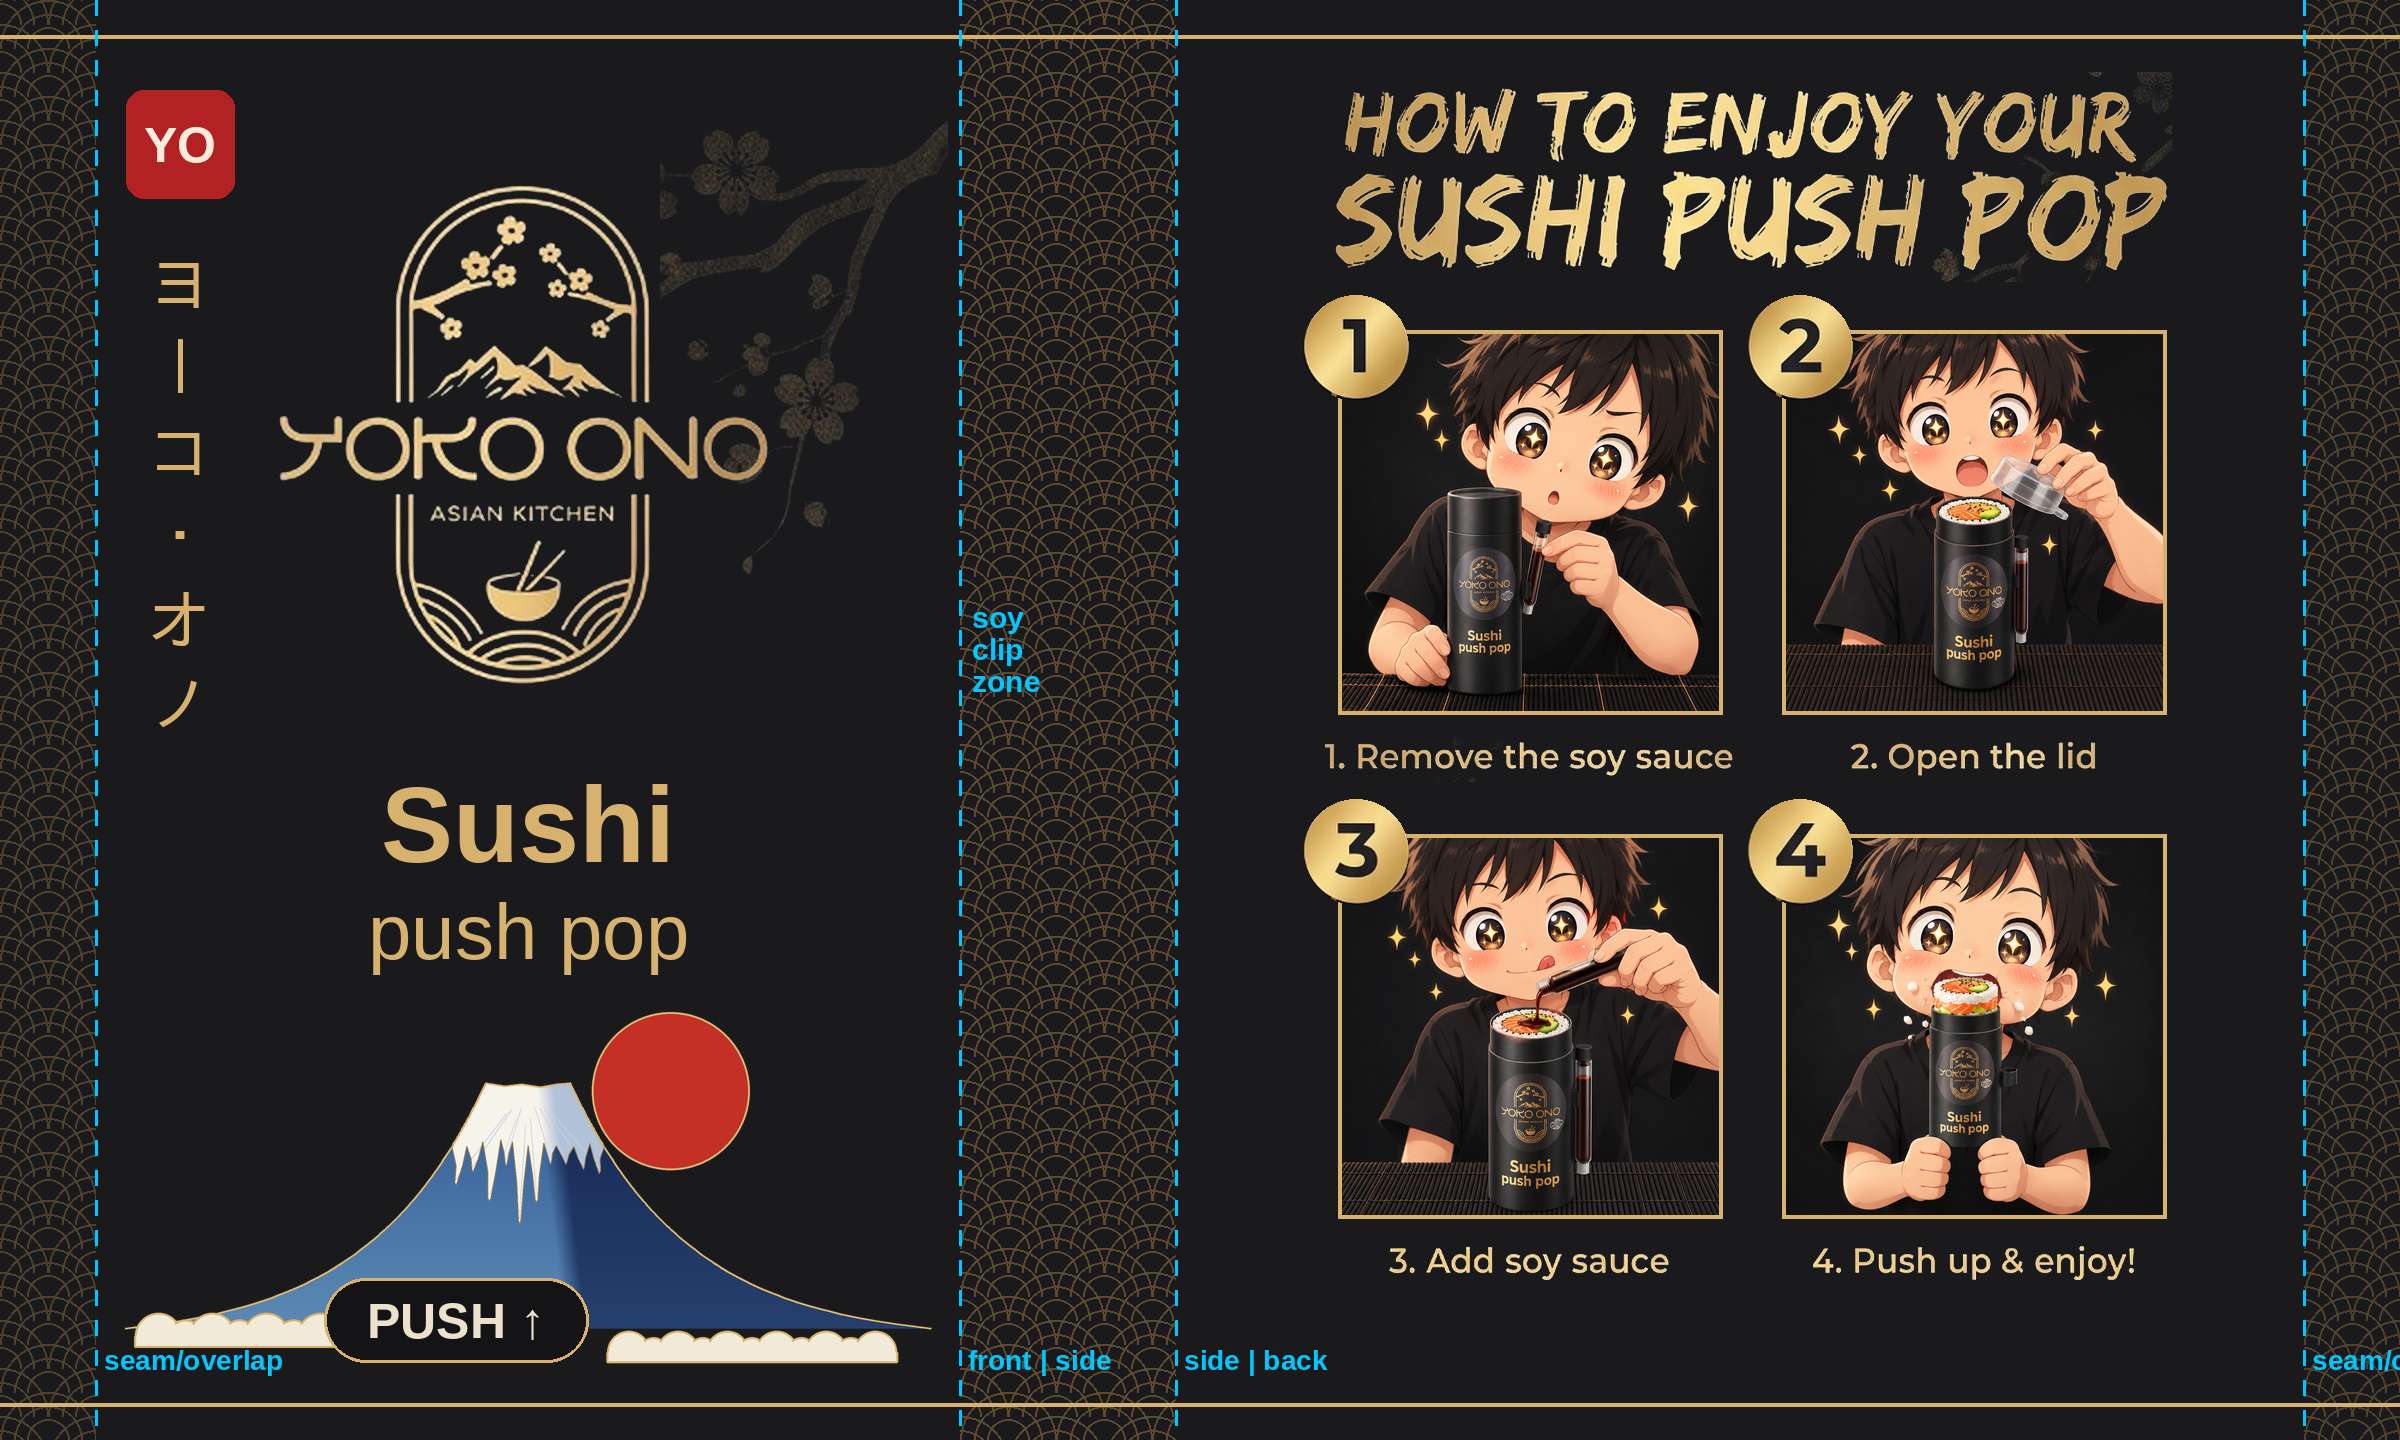
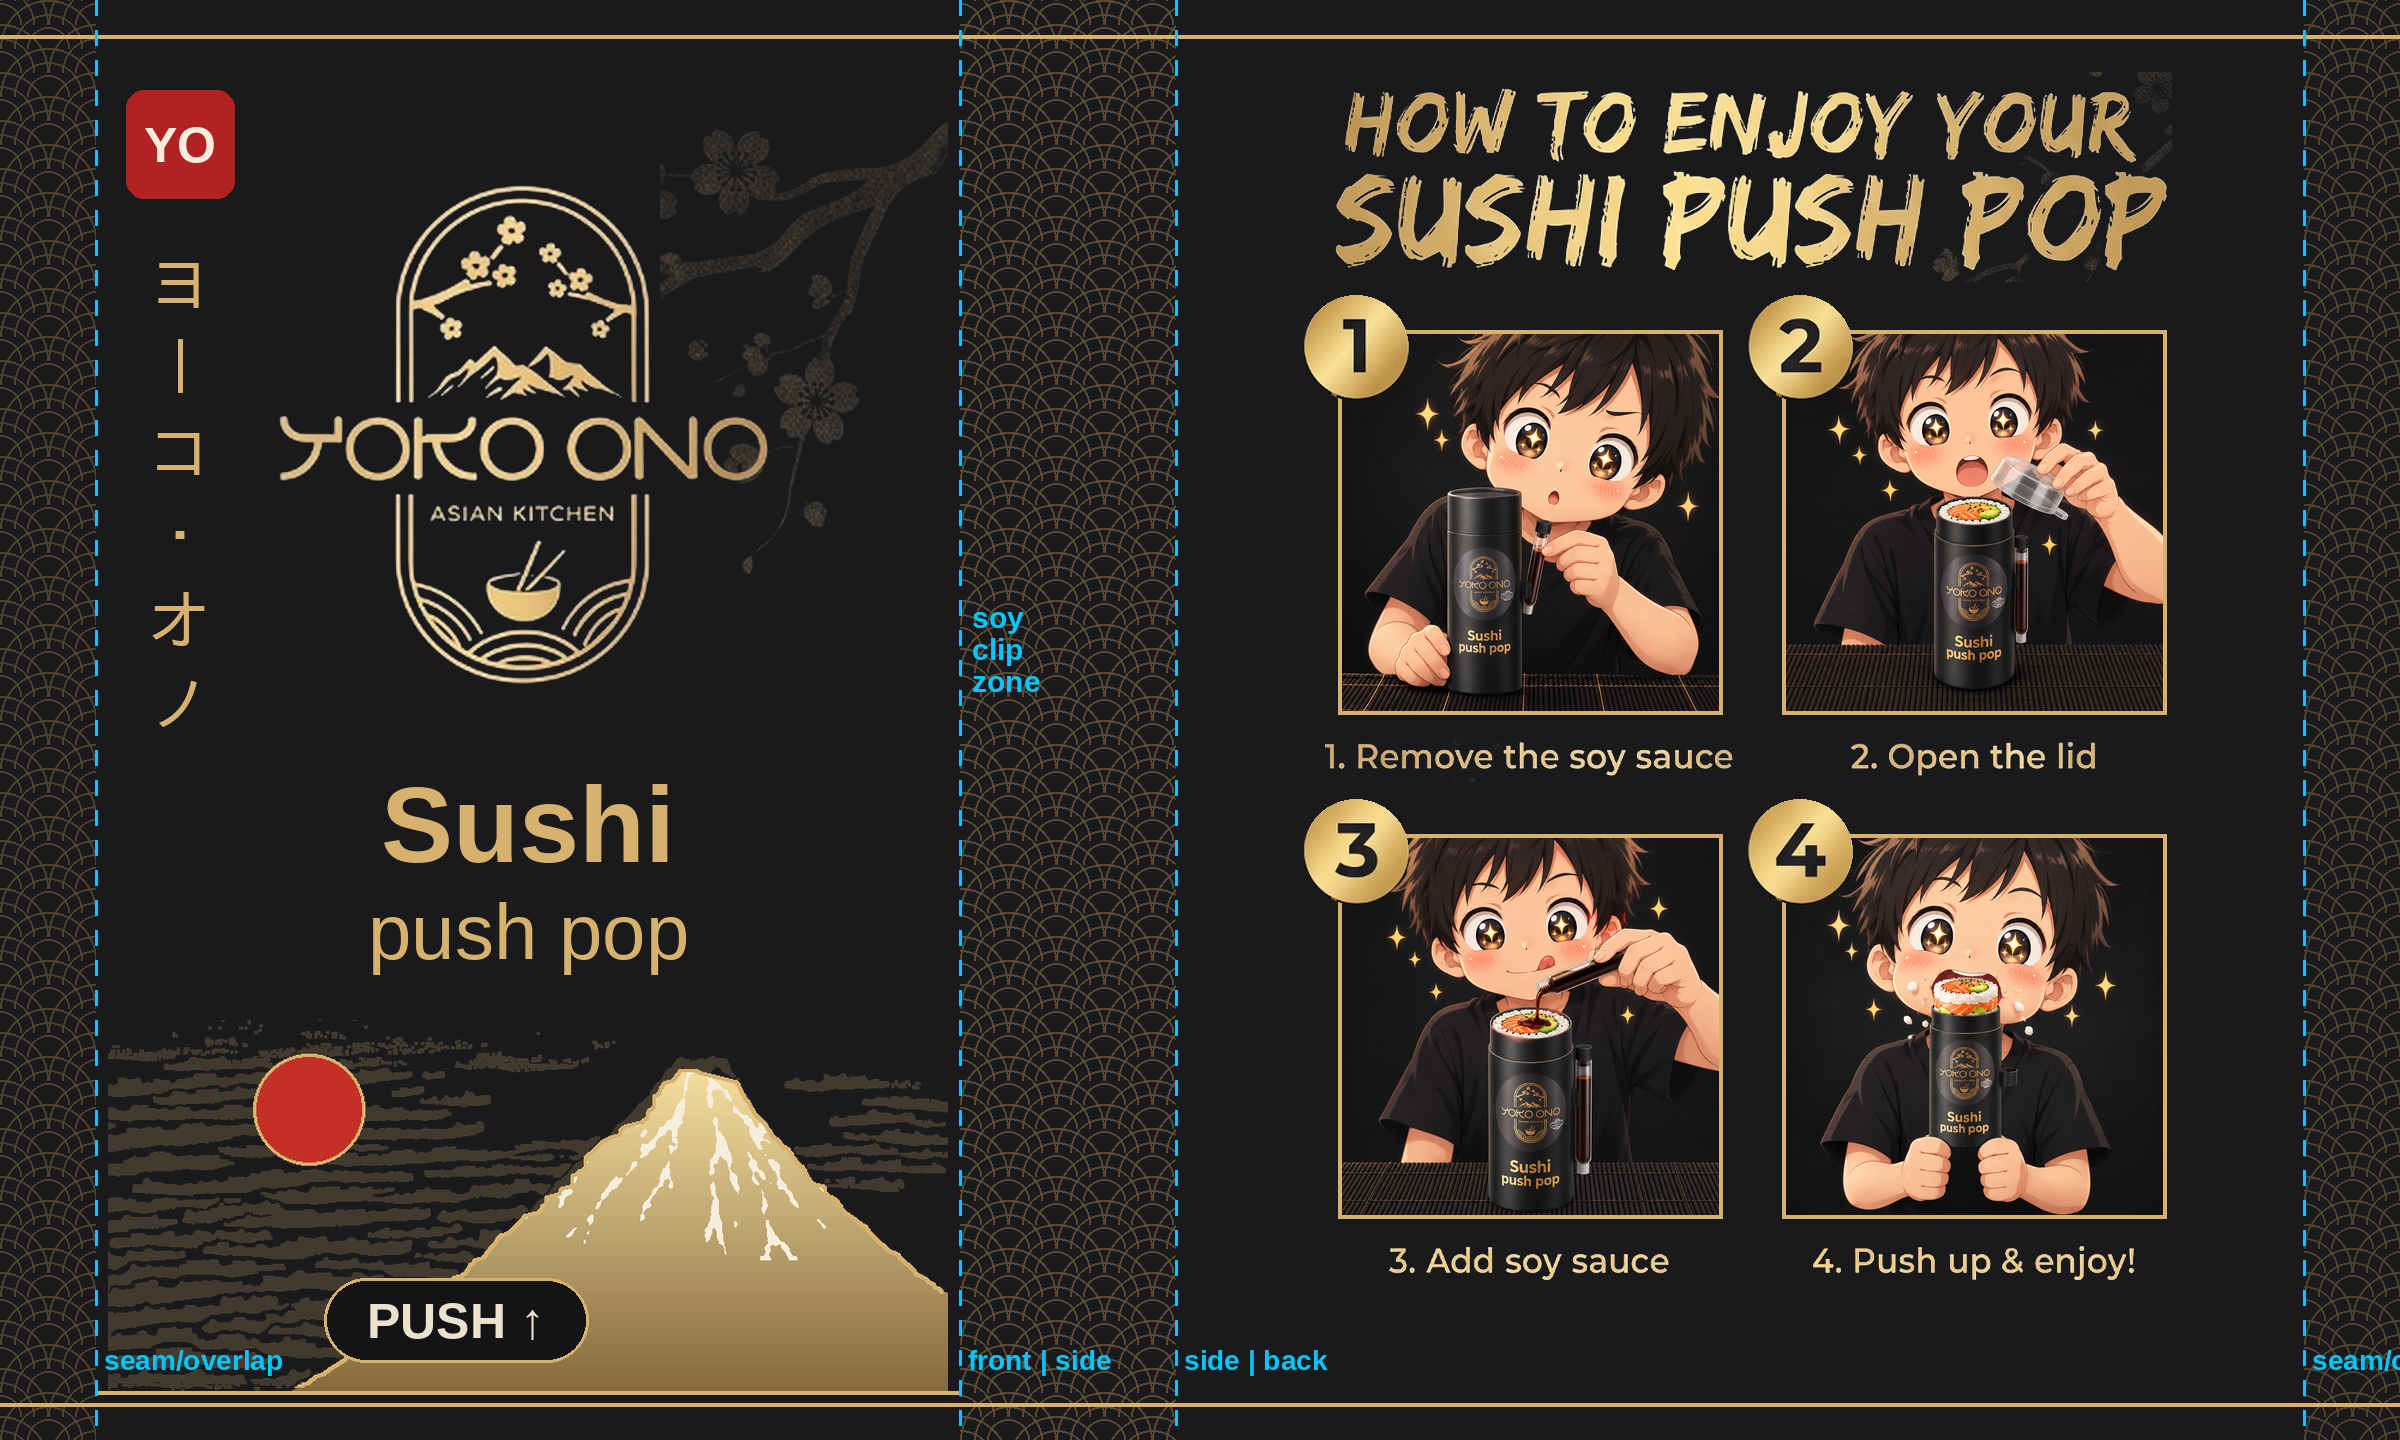
Wrap label: Fuji from Hokusai's Red Fuji (public domain) recoloured to black & gold; clean + print variants
Claude-Session: https://claude.ai/code/session_01V1tqCne1qoexL69DJjRyCc

Changed region(s): [[0.0312, 0.6875, 0.4062, 0.9688]]

diff --git a/sticker/fuji_hokusai.py b/sticker/fuji_hokusai.py
@@ -1,0 +1,87 @@
+"""Fuji from Hokusai's 'Fine Wind, Clear Morning' (public domain), recoloured to the ad's black & gold.
+mode 'print' = keep Hokusai's texture as gold-on-black;  mode 'clean' = flat clean vector-like fills."""
+import numpy as np
+from PIL import Image, ImageFilter, ImageDraw
+REF='ref/hokusai_red_fuji_PD.jpg'
+GOLD=np.array([214,178,110]); GOLD_HI=np.array([246,222,160]); GOLD_LO=np.array([110,82,40]); CREAM=np.array([246,238,220])
+
+def masks():
+    im=Image.open(REF).convert('RGB'); a=np.array(im).astype(int); r,g,b=a[...,0],a[...,1],a[...,2]
+    lum=0.3*r+0.59*g+0.11*b
+    red=((r-g>45)&(r-b>45)) | ((r-b>25)&(r-g>15)&(lum<140))
+    rm=Image.fromarray((red*255).astype('uint8')).filter(ImageFilter.MaxFilter(9)).filter(ImageFilter.MinFilter(9))
+    rmn=np.array(rm)>0
+    H,W=rmn.shape; hull=np.zeros_like(rmn)
+    def runs(row):
+        d=np.diff(np.concatenate([[0],row.astype(int),[0]])); st=np.nonzero(d==1)[0]; en=np.nonzero(d==-1)[0]-1
+        return list(zip(st,en))
+    # summit: first row with a solid red run of >=10px
+    y0=next(y for y in range(H) if any(e-s>=10 for s,e in runs(rmn[y])))
+    s0,e0=max(runs(rmn[y0]),key=lambda t:t[1]-t[0]); curL,curR=s0,e0
+    for y in range(y0,H):
+        rs=[(s,e) for s,e in runs(rmn[y]) if e>=curL-6 and s<=curR+6]   # runs touching current cone
+        if rs:
+            nl=min(s for s,e in rs); nr=max(e for s,e in rs)
+            curL=min(curL,max(nl,curL-4)); curR=max(curR,min(nr,curR+4))   # flanks spread at most 4px/row
+        hull[y,curL:curR+1]=True
+    # smooth hull edge
+    hm=Image.fromarray((hull*255).astype('uint8')).filter(ImageFilter.MinFilter(5)).filter(ImageFilter.MaxFilter(5)).filter(ImageFilter.GaussianBlur(1.2))
+    hull=np.array(hm)>128
+    yy=np.arange(H)[:,None].repeat(W,1)
+    snow=hull & (lum>140) & (r-g<55) & (yy<int(H*0.45))
+    sky=~hull
+    cloud=sky & (lum>150)
+    return a,lum,hull,snow,cloud
+
+def render(mode='clean', crop=(190,70,960,412)):
+    a,lum,hull,snow,cloud=masks()
+    H,W=hull.shape; out=np.zeros((H,W,4),float)
+    yy=np.arange(H)[:,None].repeat(W,1)
+    top=np.nonzero(hull.any(1))[0][0]
+    # vertical gradient on the mountain: bright gold at summit -> deep gold lower down
+    f=np.clip((yy-top)/(H*0.55),0,1)[...,None]
+    base=GOLD_HI*(1-f)+GOLD_LO*f
+    if mode=='print':
+        tex=(lum/255.0)[...,None]                 # keep Hokusai's woodgrain texture
+        col=base*(0.55+0.6*tex)
+    else:
+        col=base
+    out[hull,:3]=np.clip(col[hull],0,255); out[hull,3]=255
+    s=snow
+    if mode=='clean':
+        sm=Image.fromarray((snow*255).astype('uint8')).filter(ImageFilter.MaxFilter(3)).filter(ImageFilter.MinFilter(3)).filter(ImageFilter.GaussianBlur(1.0))
+        s=(np.array(sm)>100)&hull
+    out[s,:3]=CREAM; out[s,3]=255
+    # fade the mountain foot into black (the print's forest)
+    fade=np.clip(1-(yy-(top+H*0.48))/(H*0.22),0,1)
+    out[...,3]*=fade
+    # Hokusai's cloud pattern as faint gold in the sky
+    cm=cloud
+    if mode=='clean':
+        cmi=Image.fromarray((cloud*255).astype('uint8')).filter(ImageFilter.MinFilter(3)).filter(ImageFilter.MaxFilter(3))
+        cm=(np.array(cmi)>128)&~hull
+    cl=np.zeros_like(out); cl[cm,:3]=GOLD; cl[cm,3]=55
+    clouds=Image.fromarray(cl.astype('uint8'),'RGBA').crop(crop)
+    img=Image.fromarray(out.astype('uint8'),'RGBA').crop(crop)
+    # gold outline along the mountain silhouette
+    hm=Image.fromarray((hull*255).astype('uint8')).crop(crop)
+    edge=hm.filter(ImageFilter.FIND_EDGES).filter(ImageFilter.MaxFilter(3))
+    e=np.array(edge)>60
+    e[:, -4:]=False; e[-4:,:]=False   # no outline along the crop border
+    o=np.array(img); fy=fade[crop[1]:crop[3],crop[0]:crop[2]]
+    o[e,:3]=GOLD; o[e,3]=(255*fy[e]).astype('uint8')
+    return Image.fromarray(o,'RGBA'), clouds
+
+def with_sun(layers):
+    img,clouds=layers
+    w,h=img.size; r=int(h*0.15); cx,cy=int(w*0.24),int(h*0.24)
+    out=clouds.copy(); sd=ImageDraw.Draw(out)
+    sd.ellipse((cx-r,cy-r,cx+r,cy+r),fill=(196,48,38,255),outline=(214,178,110,255),width=3)
+    out.alpha_composite(img); return out
+
+def make_fuji_hokusai(w,h,mode='clean'):
+    return with_sun(render(mode)).resize((w,h),Image.LANCZOS)
+
+if __name__=='__main__':
+    for m in ('print','clean'):
+        f=with_sun(render(m)); bg=Image.new('RGBA',f.size,(26,26,28,255)); bg.alpha_composite(f); bg.save(f'fuji_hokusai_{m}.png')

diff --git a/sticker/wrap_v1.py b/sticker/wrap_v1.py
@@ -64,8 +64,10 @@ def fuji(cx,base_y,w,h):
     # gold ground line + seigaiha water at the foot
     ld.line((cx-w//2-mm(8),base_y,cx+w//2+mm(8),base_y),fill=GOLD+(255,),width=4)
     im.paste(lay,(0,0),lay)
-from fuji import make_fuji
-_f=make_fuji(mm(70),mm(33)); im.paste(_f,((mm(8)+mm(80))//2-_f.width//2, H-mm(4)-_f.height), _f)
+import os
+from fuji_hokusai import make_fuji_hokusai
+_f=make_fuji_hokusai(mm(70),mm(31),os.environ.get('FUJI_MODE','clean')); im.paste(_f,((mm(8)+mm(80))//2-_f.width//2, H-mm(4)-_f.height), _f)
+d.line((mm(8),H-mm(4),mm(80),H-mm(4)),fill=GOLD,width=4)
 
 # ---- background pattern zones: seams + transition
 seigaiha((0,0,mm(8),H),mm(4),GOLD_D+(140,))
